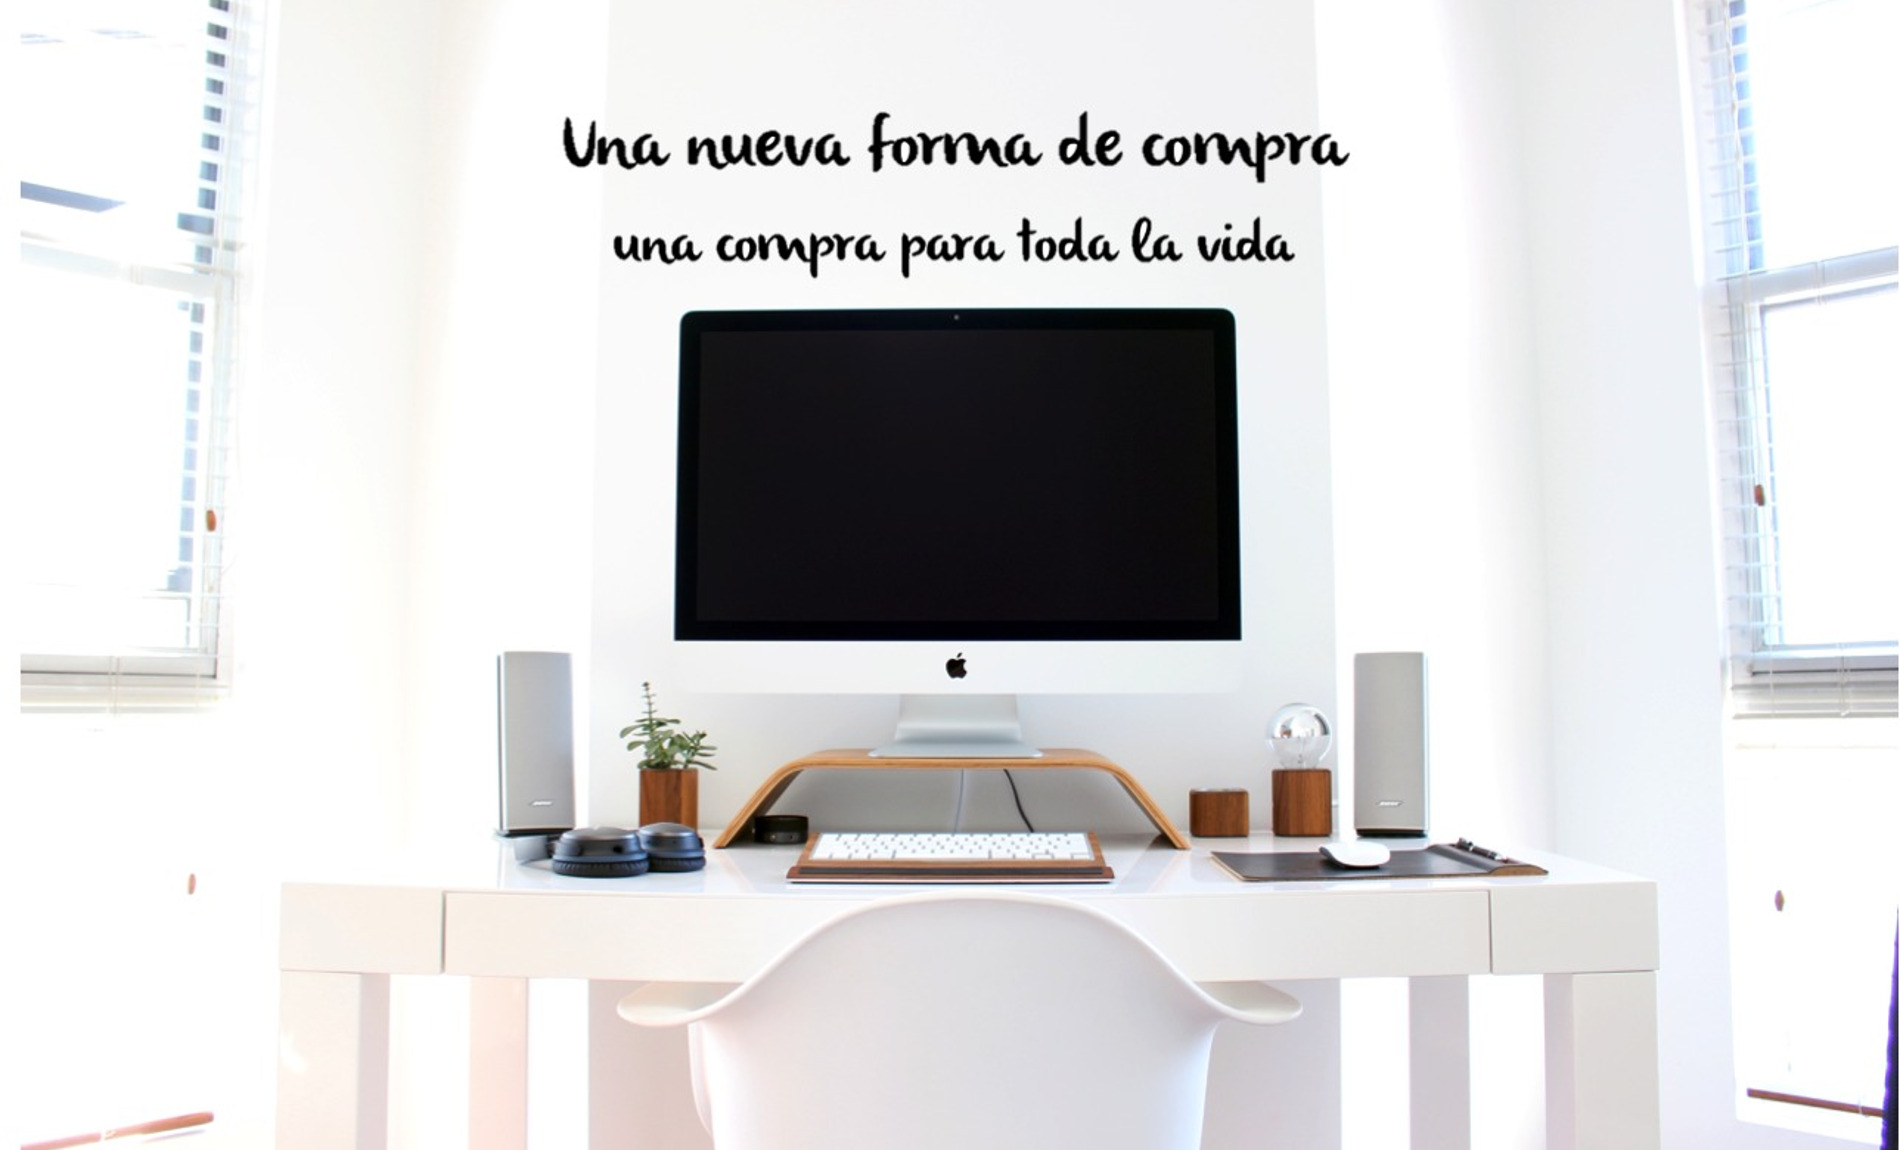
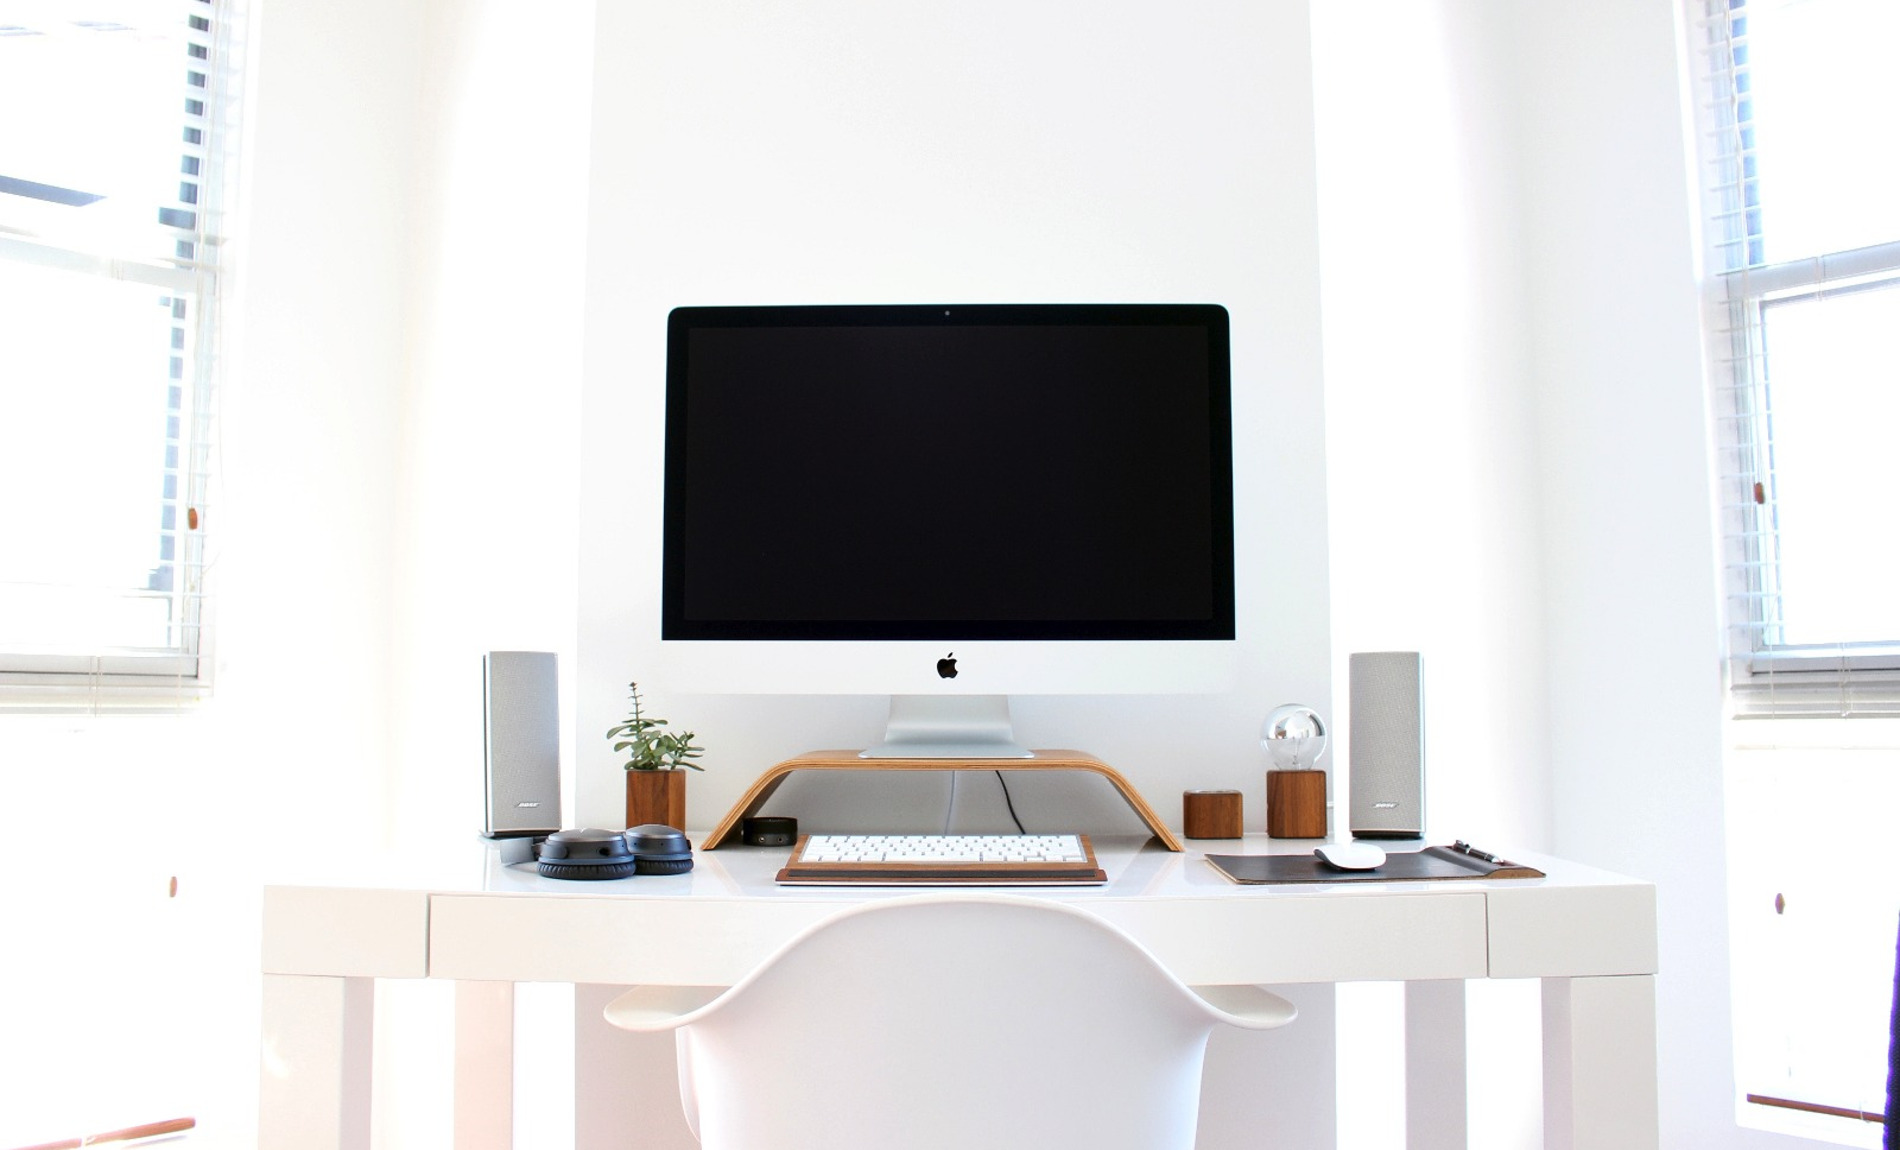
Slide 1

diff --git a/_slides/slide1.md b/_slides/slide1.md
@@ -1,7 +1,7 @@
 ---
-title: Slide 1
+title: Una nueva forma de compra
 image: slide-1.jpg
-text: Lorem ipsum dolor sit amet, consectetur adipisicing elit.
-link: /#Mac
+text: una compra para toda la vida
+link: /#compra
 linktext: Compra
 ---
